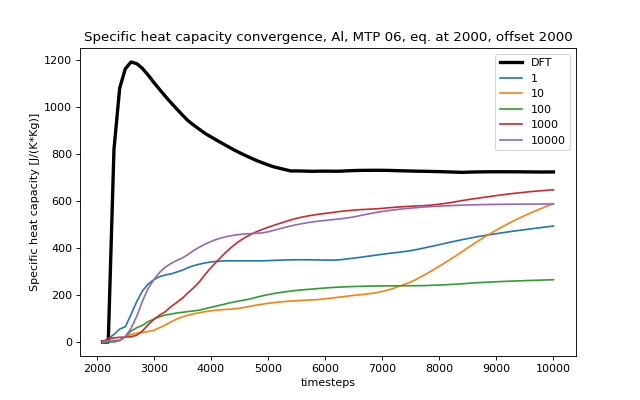
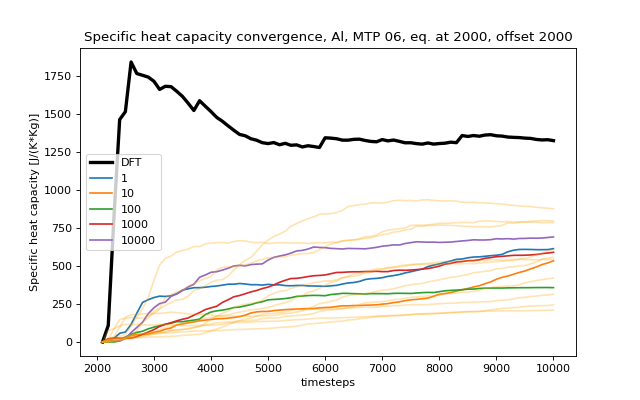
added new 10 plots of several potentials being trained on 100 timesteps for Al

diff --git a/visualization.py b/visualization.py
@@ -426,7 +426,7 @@ def plot_properties_convergence(element, eq, mtp, final=False, offset=0):
 
     # get averages from indeces
     for i in indeces:
-        MSD, Cv, E_tot = pr.get_averaged_properties(eq+'/properties_'+element+'_MTP_'+mtp+'_'+str(i)+'_'+eq+'_offset_'+str(offset)+'_ranfor_4000.txt')
+        MSD, Cv, E_tot = pr.get_averaged_properties(eq+'/properties_'+element+'_MTP_'+mtp+'_'+str(i)+'_'+eq+'_offset_'+str(offset)+'_ranfor_10000.txt')
         MSDs_mtp.append(MSD)
         Cvs_mtp.append(Cv)
         E_tots_mtp.append(E_tot)
@@ -442,7 +442,7 @@ def plot_properties_convergence(element, eq, mtp, final=False, offset=0):
     elif element == 'Si':
         j = '1000'
     for i in range(0,10,1):
-        MSD, Cv, E_tot = pr.get_averaged_properties(eq+'_iter_'+str(i)+'/properties_'+element+'_MTP_'+mtp+'_'+j+'_eq_'+str(eq_ts)+'_ranfor_10000.txt')
+        MSD, Cv, E_tot = pr.get_averaged_properties(eq+'_iter_'+str(i)+'/properties_'+element+'_MTP_'+mtp+'_'+j+'_eq_'+str(eq_ts)+'_offset_'+str(offset)+'_ranfor_10000.txt')
         MSDs_100.append(MSD)
         Cvs_100.append(Cv)
         E_tots_100.append(E_tot)
@@ -481,17 +481,16 @@ def plot_properties_convergence(element, eq, mtp, final=False, offset=0):
                 else:
                     plt.plot(timesteps[int(offset/100):], MSDs[:-1])
 
-    '''
+    
     for MSD in MSDs_100:
         #plt.scatter(timesteps, Cv[:-1])
         if element == 'Al':
-            plt.plot(timesteps, MSD[:-1], color='orange', alpha=0.3)
+            plt.plot(timesteps[int(offset/100):], MSD, color='orange', alpha=0.3)
         elif element == 'Si':
             if mtp == '10' and eq_ts == 2000:
                 plt.plot(timesteps, MSD[:-1], color='green', alpha=0.3)
             else:
                 plt.plot(timesteps, MSD[:-1], color='red', alpha=0.3)
-    '''
     
     #plt.grid(True)
     if final:
@@ -537,14 +536,14 @@ def plot_properties_convergence(element, eq, mtp, final=False, offset=0):
         else:
             plt.plot(timesteps[int(offset/100):], Cv[:-1])
 
-    '''
+    
     for Cv in Cvs_100:
         #plt.scatter(timesteps, Cv[:-1])
         if element == 'Al':
-            plt.plot(timesteps, Cv[:-1], color='orange', alpha=0.3)
+            plt.plot(timesteps[int(offset/100):], Cv, color='orange', alpha=0.3)
         elif element == 'Si':
             plt.plot(timesteps, Cv[:-1], color='red', alpha=0.3)
-    '''
+    
     if final:
         if element == 'Al':
             plt.legend(legend)
@@ -580,14 +579,14 @@ def plot_properties_convergence(element, eq, mtp, final=False, offset=0):
         else:
             plt.plot(timesteps[int(offset/100):], E_tot[:-1])
     
-    '''
+    
     for E_tot in E_tots_100:
         #print('plotting E_tots_100', E_tot[:-1])
         if element == 'Al':
-            plt.plot(timesteps, E_tot[:-1], color='orange', alpha=0.3)
+            plt.plot(timesteps[int(offset/100):], E_tot, color='orange', alpha=0.3)
         elif element == 'Si':
             plt.plot(timesteps, E_tot[:-1], color='red', alpha=0.3)
-    '''
+    
     if final:
         if element == 'Al':
             plt.legend(legend)
